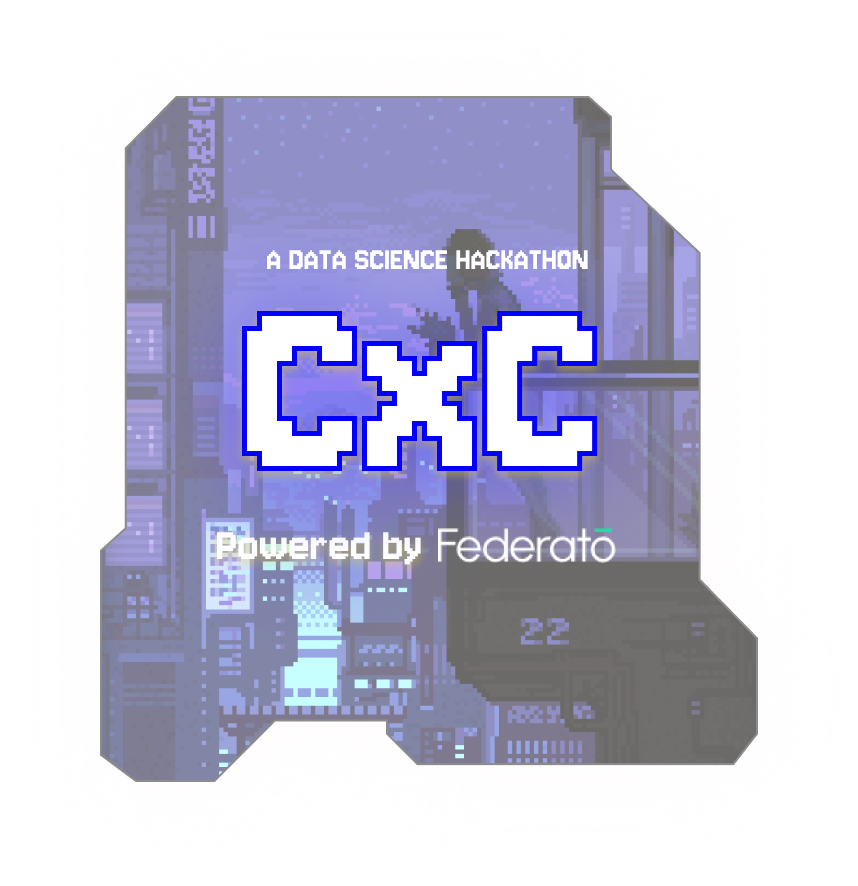
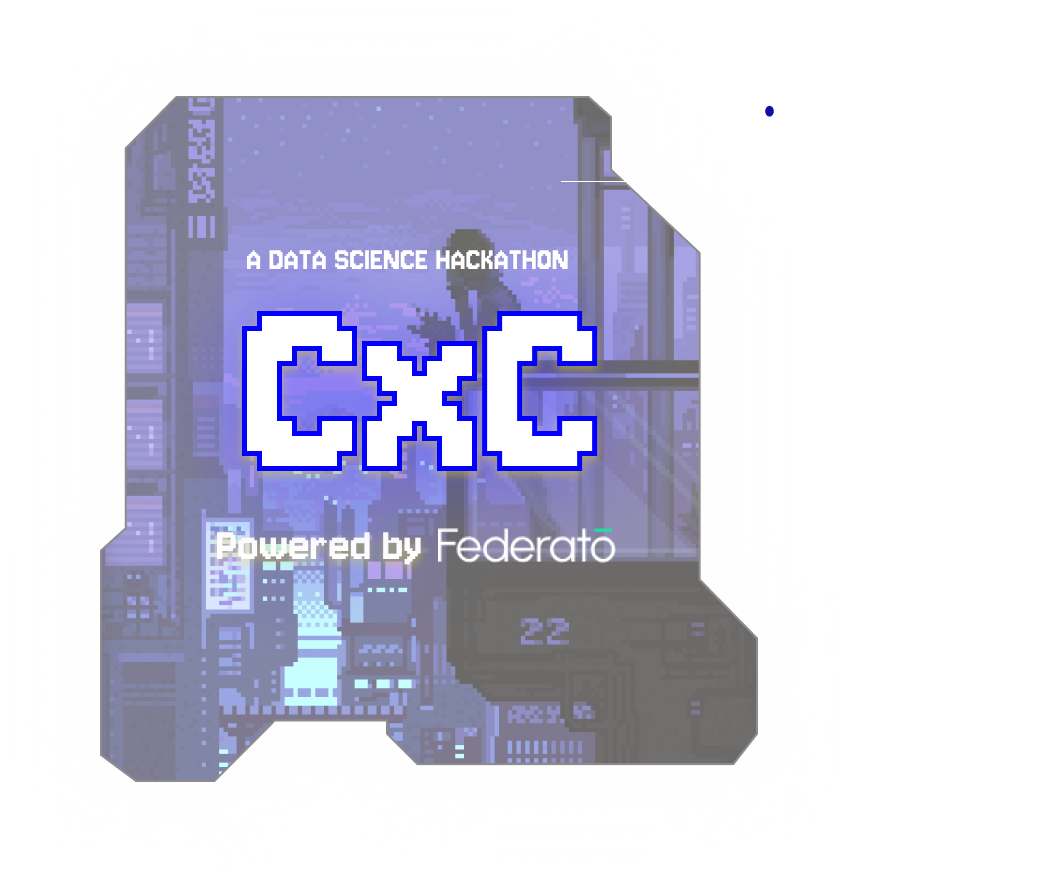
UI Changes

diff --git a/pages/registration/cxc.tsx b/pages/registration/cxc.tsx
@@ -86,7 +86,7 @@ function CxCRegistrationpage() {
           phoneNumber: "",
           email: user.email,
           discordUsername: "",
-          term: user.term,
+          term: "",
           school: "",
           program: "",
           dietaryRestrictions: [],
@@ -269,7 +269,7 @@ function CxCRegistrationpage() {
           </div>
           <div className="flex w-[95%] flex-col items-center space-y-8 md:w-[80%] xl:w-[70%] 3xl:w-[60%]">
             {/* Application Form */}
-            <div className="mx-auto mb-[200px] w-[100%] rounded-[30px] border-2 border-double border-white bg-gradient-to-b  from-[rgba(0,9,255,0.5)] to-[rgba(255,150,214,0.5)] p-4 text-center font-jersey font-thin tracking-wider text-white md:border-4">
+            <div className="mx-auto mb-[200px] w-[100%] rounded-[30px] border-2 border-double border-white bg-gradient-to-b  from-[rgba(0,9,255,0.5)] to-[rgba(237,150,214,0.5)] p-4 text-center font-jersey font-thin tracking-wider text-white md:border-4">
               <div className="min-h-screen px-5 py-10 text-white">
                 <h1 className="mb-8 text-center text-responsive-subtitle font-thin tracking-widest">
                   Application Form
@@ -402,7 +402,7 @@ function CxCRegistrationpage() {
                   </div>
                   <div>
                     <p className="mb-2 text-left text-xl font-thin tracking-widest">
-                      Current or Most Recent Study Term (e.g. 1B)
+                      Current level of study
                     </p>
                     <SingleDropdown
                       id={"studyTerm"}
@@ -424,7 +424,7 @@ function CxCRegistrationpage() {
                       id={"school"}
                       name={"school"}
                       type={"text"}
-                      placeholder="Enter School"
+                      placeholder="Enter School Full Name"
                       value={formik.values.school}
                       onChange={formik.handleChange}
                       onBlur={formik.handleBlur}
@@ -505,7 +505,7 @@ function CxCRegistrationpage() {
                       id={"resumeLink"}
                       name={"resumeLink"}
                       type={"text"}
-                      placeholder="Enter Resume Link"
+                      placeholder="drive.google.com/file/..."
                       value={formik.values.resumeLink}
                       onChange={formik.handleChange}
                       onBlur={formik.handleBlur}
@@ -597,7 +597,7 @@ function CxCRegistrationpage() {
                   <div>
                     <p className="mb-2 text-left text-xl font-thin tracking-widest">
                       What do you hope to see and gain from CxC? Specific
-                      workshops, games, activities, anything! (500 characters)
+                      workshops, skills,, activities, anything! (500 characters)
                     </p>
                     <TextArea
                       id={"cxcGoals"}

diff --git a/components/sections/cxc/Hero.tsx b/components/sections/cxc/Hero.tsx
@@ -25,10 +25,13 @@ export default function Hero({ registered }: HeroProps) {
   return (
     <section className="mx-container mb-section relative mt-[25%]">
       <div className="relative pt-44 text-center lg:pt-56">
-        <p className="mx-auto mb-10 max-w-[350px] leading-loose text-white xs:max-w-[600px] xs:text-lg lg:mb-14 2xl:max-w-[640px] 2xl:text-xl">
+        <p className="mx-auto mb-5 max-w-[350px] leading-loose text-white xs:max-w-[600px] xs:text-lg lg:mb-10 2xl:max-w-[640px] 2xl:text-xl">
           Experience CxC - Powered by Federato, Canada&apos;s <b>largest</b> student
           run hackathon. We are a beginner-friendly datathon that bring together students and companies to build
           projects that solve real-world problems.
+        </p>
+        <p className="mx-auto mb-5 max-w-[350px] leading-loose text-white xs:max-w-[600px] xs:text-lg lg:mb-10 2xl:max-w-[640px] 2xl:text-xl">
+          Applications close January 24th, 2025
         </p>
         <div className="flex flex-col gap-5 sm:flex-row sm:justify-center sm:gap-12">
           <Button

diff --git a/utils/formValidation.ts b/utils/formValidation.ts
@@ -105,12 +105,12 @@ export const CxCRegistrationSchema = object({
   specificAllergies: string(),
   tshirtSize: string().required("Please select your T-Shirt size"),
   resumeLink: string()
-    .required("Please enter a Google Drive link to your resume.")
+    .required("Please enter a Google Drive link to a PDF your resume.")
     .matches(
       /https?:\/\/(?:drive\.google\.com\/(?:file\/d\/|drive\/folders\/|open\?id=|uc\?id=)[^\/\&\?]+)/,
-      "Please provide a valid Google drive link.",
+      "Please provide a valid Google Drive link. It must be a PDF, it cannot be a Google Doc.",
     )
-    .test("is-public", "Please provide a publicaly shared link.", (url) => {
+    .test("is-public", "THe link you provided is not public.", (url) => {
       const fileId: string | null = extractFileId(url);
       if (fileId) {
         return isPublicDriveFile(fileId);

diff --git a/utils/apiCalls.ts b/utils/apiCalls.ts
@@ -165,3 +165,16 @@ export const getCurrentUser = async () => {
     token: store.getState().loginToken.token,
   });
 };
+
+export const getUserStatusByEvent = async (eventId: string, userId: string) => {
+  try {
+    return await axios.post("/api/UWDSC/admin/getUserStatusByEvent", {
+      token: store.getState().loginToken.token,
+      eventId,
+      userId,
+    });
+  } catch (e) {
+    console.error("Error fetching user status:", e);
+    throw e;
+  }
+};

diff --git a/pages/cxc.tsx b/pages/cxc.tsx
@@ -47,7 +47,7 @@ export default function CxC() {
           backgroundRepeat: "no-repeat",
         }}
       >
-        <div className="absolute left-1/2 w-[75%] -translate-x-1/2 lg:w-[45%]">
+        <div className="absolute ml-10 left-1/2 w-[75%] -translate-x-1/2 lg:w-[55%]">
           <Image src={cxctitle} alt="CxC Title" />
           <div className="absolute inset-0 bg-gradient-to-b from-transparent via-transparent to-black"></div>
         </div>
